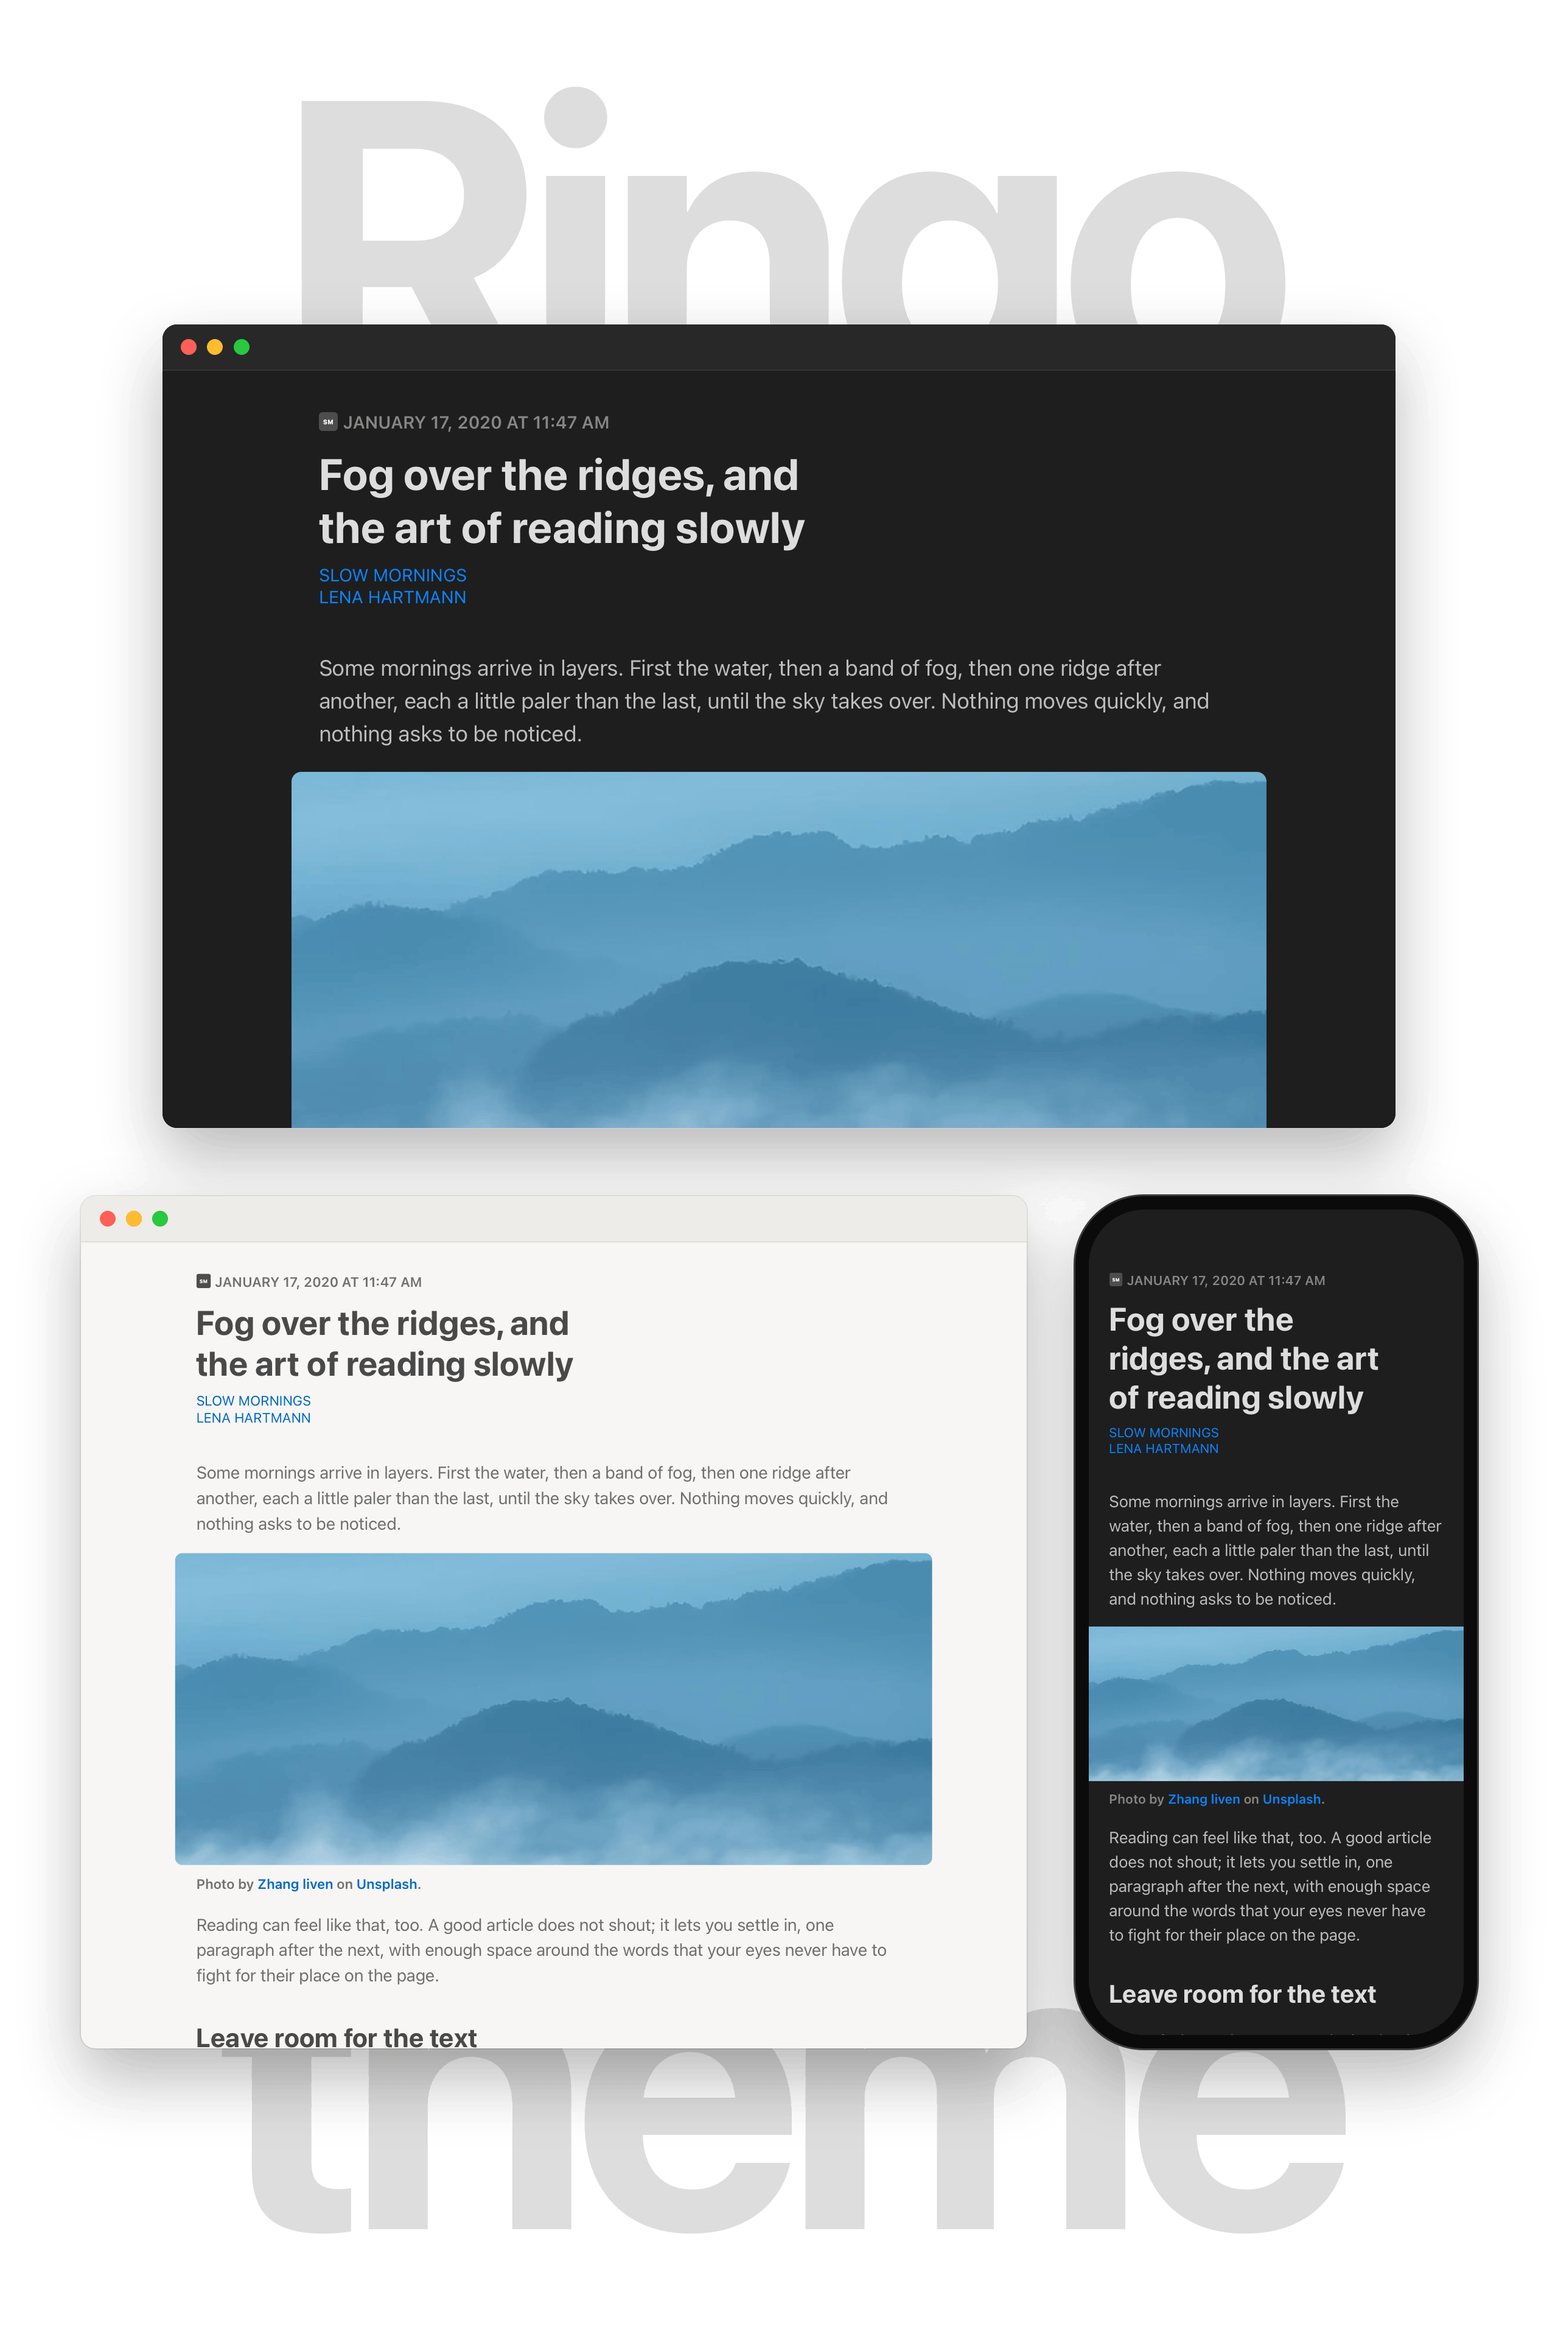
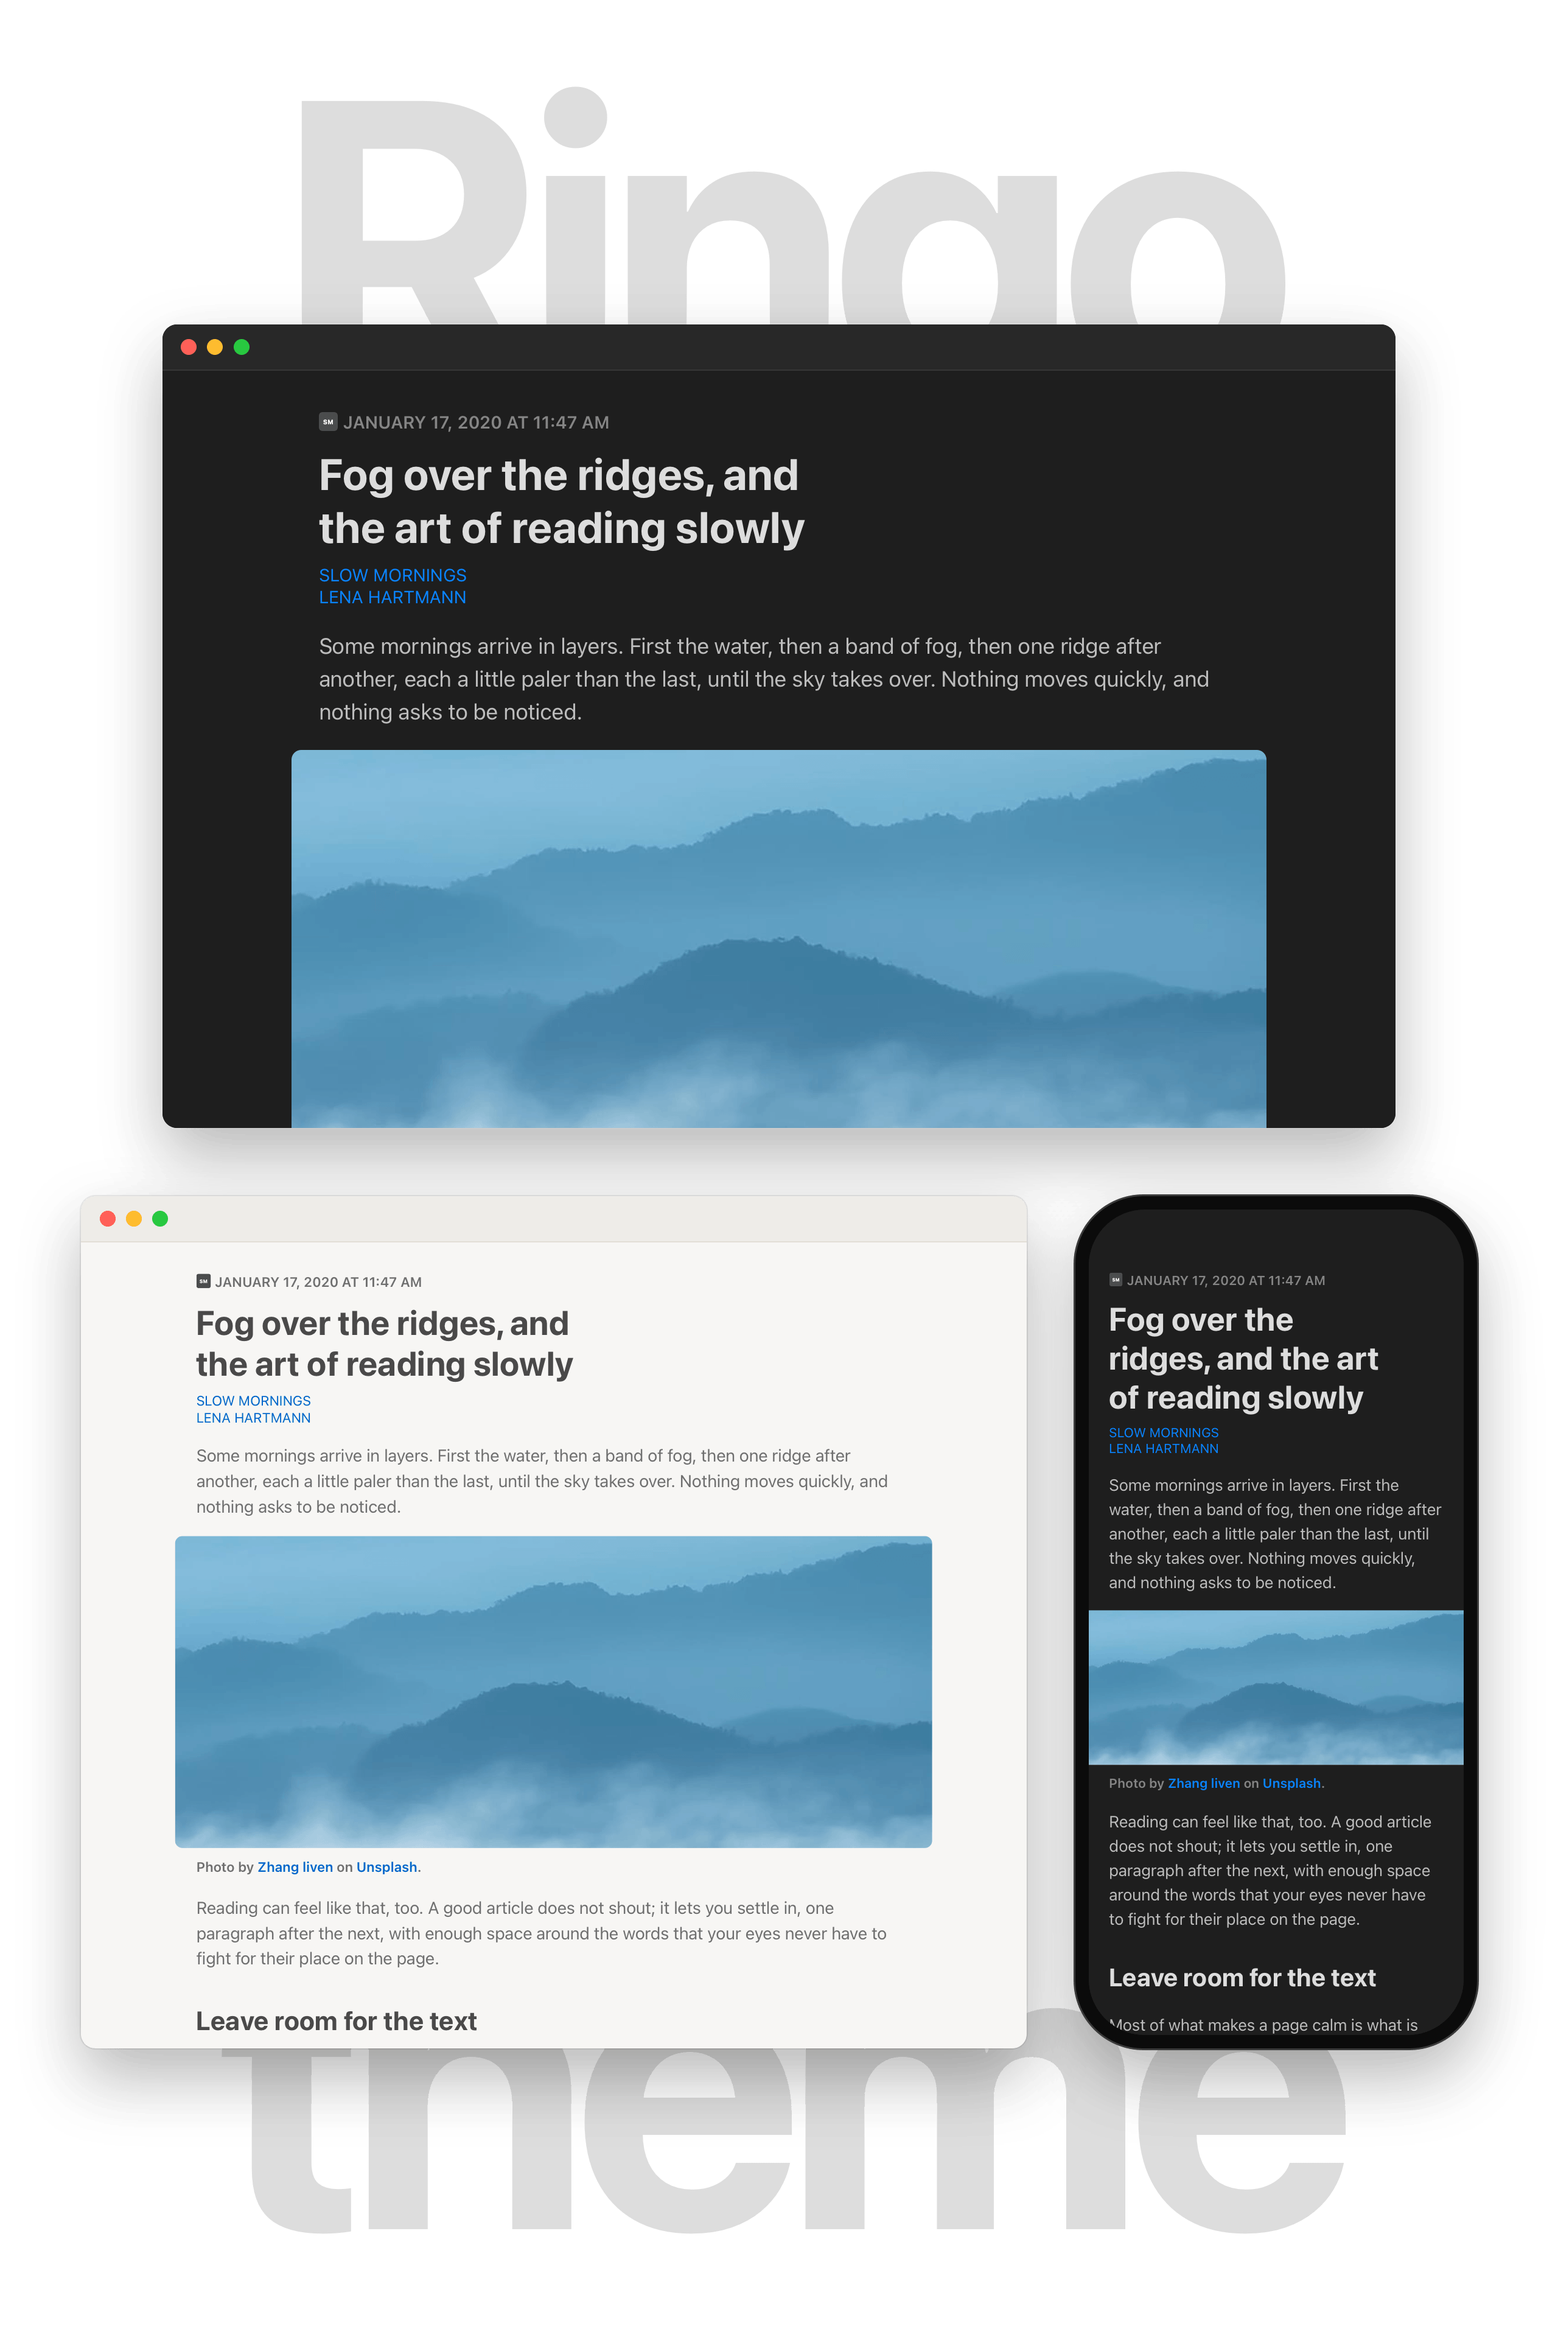
chore(release): v1.4.1

diff --git a/Ringo.nnwtheme/stylesheet.css b/Ringo.nnwtheme/stylesheet.css
@@ -31,7 +31,6 @@
   --number-font-size-script: 0.75em; /** sup and sub; em, so it follows the surrounding text. */
   --number-font-weight-bold: 700; /** Article title and headings in the article. */
   --number-font-weight-semibold: 600; /** Dateline, captions and bookmark card titles. */
-  --number-opacity-caption: 0.8;
   --number-width: 42rem; /** Maximum width of the article column. */
   --number-space-base: 0.5rem;
   --number-space-s: 0.5rem;
@@ -197,6 +196,7 @@ body {
   display: none;
 }
 .article-header .byline,
+.article-header .byline a,
 .article-header .feed {
   color: var(--color-accent);
   text-decoration: none;
@@ -244,11 +244,6 @@ body {
 .articleBody a {
   color: var(--color-accent);
   text-decoration: none;
-  text-decoration-thickness: 0.08em;
-  text-underline-offset: 0.14em;
-}
-.articleBody a:hover {
-  text-decoration-thickness: 0.13em;
 }
 .articleBody p,
 .articleBody ul,
@@ -298,6 +293,9 @@ body {
   background: transparent;
   padding: 0;
 }
+.articleBody :nth-child(1 of :not([hidden], [style*=float], [align=left i], [align=right i], .alignleft, [data-sanitized-class~=alignleft], .bildkastenlinks, [data-sanitized-class~=bildkastenlinks], .alignright, [data-sanitized-class~=alignright], .bildkastenrechts, [data-sanitized-class~=bildkastenrechts])):where(:not(.articleBody :not(:nth-child(1 of :not([hidden], [style*=float], [align=left i], [align=right i], .alignleft, [data-sanitized-class~=alignleft], .bildkastenlinks, [data-sanitized-class~=bildkastenlinks], .alignright, [data-sanitized-class~=alignright], .bildkastenrechts, [data-sanitized-class~=bildkastenrechts]))) *)) {
+  margin-block-start: 0;
+}
 
 .articleBody .wp-caption {
   width: unset !important;
@@ -305,11 +303,8 @@ body {
 .articleBody iframe {
   border: 0;
 }
-.articleBody video,
-.articleBody iframe {
-  border-radius: var(--number-border-radius-l);
-}
 .articleBody iframe:not([style*=float], [align=left i], [align=right i], .alignleft, [data-sanitized-class~=alignleft], .bildkastenlinks, [data-sanitized-class~=bildkastenlinks], .alignright, [data-sanitized-class~=alignright], .bildkastenrechts, [data-sanitized-class~=bildkastenrechts]) {
+  aspect-ratio: 16/9;
   height: auto !important;
   width: 100vw !important;
 }
@@ -408,6 +403,16 @@ body {
   font-size: var(--number-font-size-s);
   font-weight: var(--number-font-weight-semibold);
   margin-top: var(--number-space-s);
+}
+.articleBody figcaption :nth-child(1 of *):where(:not(:is(figcaption, .wp-caption-text, .bu, [data-sanitized-class~=bu]) :not(:nth-child(1 of *)) *)),
+.articleBody .wp-caption-text :nth-child(1 of *):where(:not(:is(figcaption, .wp-caption-text, .bu, [data-sanitized-class~=bu]) :not(:nth-child(1 of *)) *)),
+.articleBody .bu :nth-child(1 of *):where(:not(:is(figcaption, .wp-caption-text, .bu, [data-sanitized-class~=bu]) :not(:nth-child(1 of *)) *)), .articleBody [data-sanitized-class~=bu] :nth-child(1 of *):where(:not(:is(figcaption, .wp-caption-text, .bu, [data-sanitized-class~=bu]) :not(:nth-child(1 of *)) *)) {
+  margin-block-start: 0;
+}
+.articleBody figcaption :nth-last-child(1 of *):where(:not(:is(figcaption, .wp-caption-text, .bu, [data-sanitized-class~=bu]) :not(:nth-last-child(1 of *)) *)),
+.articleBody .wp-caption-text :nth-last-child(1 of *):where(:not(:is(figcaption, .wp-caption-text, .bu, [data-sanitized-class~=bu]) :not(:nth-last-child(1 of *)) *)),
+.articleBody .bu :nth-last-child(1 of *):where(:not(:is(figcaption, .wp-caption-text, .bu, [data-sanitized-class~=bu]) :not(:nth-last-child(1 of *)) *)), .articleBody [data-sanitized-class~=bu] :nth-last-child(1 of *):where(:not(:is(figcaption, .wp-caption-text, .bu, [data-sanitized-class~=bu]) :not(:nth-last-child(1 of *)) *)) {
+  margin-block-end: 0;
 }
 
 .articleBody .kg-bookmark-container {
@@ -509,6 +514,10 @@ body {
 }
 .articleBody :is(img, video, iframe):is([style*=float], [align=left i], [align=right i], .alignleft, [data-sanitized-class~=alignleft], .bildkastenlinks, [data-sanitized-class~=bildkastenlinks], .alignright, [data-sanitized-class~=alignright], .bildkastenrechts, [data-sanitized-class~=bildkastenrechts]) {
   height: auto;
+}
+.articleBody :is(img, video, iframe):is([style*=float], [align=left i], [align=right i], .alignleft, [data-sanitized-class~=alignleft], .bildkastenlinks, [data-sanitized-class~=bildkastenlinks], .alignright, [data-sanitized-class~=alignright], .bildkastenrechts, [data-sanitized-class~=bildkastenrechts]),
+.articleBody :is([style*=float], [align=left i], [align=right i], .alignleft, [data-sanitized-class~=alignleft], .bildkastenlinks, [data-sanitized-class~=bildkastenlinks], .alignright, [data-sanitized-class~=alignright], .bildkastenrechts, [data-sanitized-class~=bildkastenrechts]) :is(img, video, iframe) {
+  border-radius: var(--number-border-radius-l);
 }
 .articleBody .alignleft, .articleBody [data-sanitized-class~=alignleft], .articleBody .bildkastenlinks, .articleBody [data-sanitized-class~=bildkastenlinks],
 .articleBody :is(img, iframe, video)[align=left i] {

diff --git a/Ringo.nnwtheme/template.html b/Ringo.nnwtheme/template.html
@@ -37,7 +37,7 @@ Presentation:
 <main>
   <article class="article [[text_size_class]]" data-nnw-theme="ringo">
     <header class="article-header">
-      <img class="nnw-image-icon" src="[[avatar_src]]" alt="Icon of [[byline]]" />
+      <img class="nnw-image-icon" src="[[avatar_src]]" alt="Icon of [[feed_link_title]]" />
       <time class="dateline [[dateline_style]]" datetime="[[datetime_long]]">
         [[date_long]] at [[time_short]]
       </time>
@@ -55,14 +55,34 @@ Presentation:
   </article>
 </main>
 <script>
-  // Feeds pad their text with <p>&nbsp;</p>. Mark paragraphs that hold only
-  // whitespace (trim() includes the non-breaking space) and no element such as
-  // an image as hidden; the stylesheet hides them (_text.scss). Without Article
+  // Feeds pad their text with <p>&nbsp;</p>, <p><br></p> or <p><strong></strong></p>.
+  // Mark paragraphs that hold only whitespace (trim() includes the non-breaking
+  // space) and no media as hidden; empty inline elements such as <strong> or
+  // <br> do not count. The stylesheet hides them (_text.scss). Without Article
   // JavaScript they stay, which costs only space.
+  //
+  // Some feeds, such as lto.de, open the body with the article title again as a
+  // heading. Hide the first heading when no text comes before it and its letters
+  // and digits match the title's; spacing and punctuation split across spans may
+  // differ.
   // Wrapped in a function so nothing leaks into the page's global scope.
   ;(() => {
-    for (const p of document.querySelectorAll('.articleBody p')) {
-      if (!p.firstElementChild && !p.textContent.trim()) p.hidden = true
+    const body = document.querySelector('.articleBody')
+    if (!body) return
+
+    const media = 'img, picture, svg, video, audio, iframe, object, embed, canvas, input'
+    for (const p of body.querySelectorAll('p')) {
+      if (!p.textContent.trim() && !p.querySelector(media)) p.hidden = true
     }
+
+    const words = text => text.toLowerCase().replace(/[^\p{L}\p{N}]+/gu, '')
+    const title = words(document.querySelector('.article-header h1')?.textContent ?? '')
+    const heading = body.querySelector('h1, h2, h3, h4, h5, h6')
+    if (!title || !heading) return
+
+    const before = document.createRange()
+    before.setStart(body, 0)
+    before.setEndBefore(heading)
+    if (!before.toString().trim() && words(heading.textContent) === title) heading.hidden = true
   })()
 </script>

diff --git a/CHANGELOG.md b/CHANGELOG.md
@@ -1,5 +1,23 @@
 # Changelog
 
+## [1.4.1](https://github.com/jonastaedcke/nnw-ringo/compare/v1.4.0...v1.4.1) (2026-10-20)
+
+### Fixed
+
+* give embedded iframes a 16:9 height ([#2](https://github.com/jonastaedcke/nnw-ringo/issues/2))
+* hide a heading that repeats the article title at the start of the body
+* hide padding paragraphs that hold only empty inline elements
+* keep linked bylines in the accent color ([#1](https://github.com/jonastaedcke/nnw-ringo/issues/1))
+* remove the outer margins of blocks inside captions
+* round the corners of floated media
+* start the first block of nested article bodies flush with the header
+* use the feed title as the icon's alt text ([#1](https://github.com/jonastaedcke/nnw-ringo/issues/1))
+
+### Documentation
+
+* license the theme under Apache-2.0
+* show Ringo on Mac and iPhone in light and dark mode in the README
+
 ## [1.4.0](https://github.com/jonastaedcke/nnw-ringo/compare/v1.3.0...v1.4.0) (2026-10-19)
 
 ### Added
